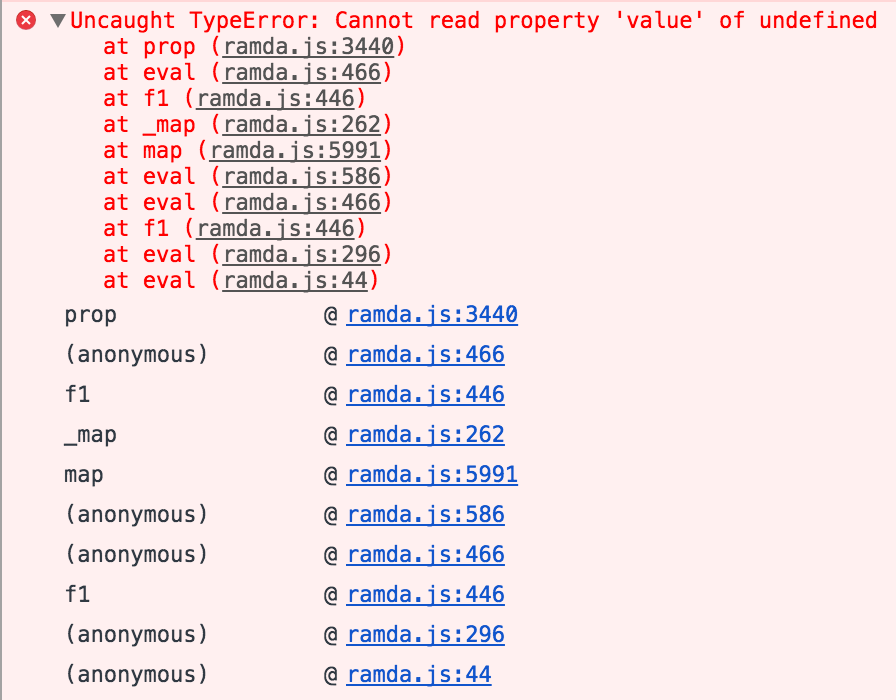
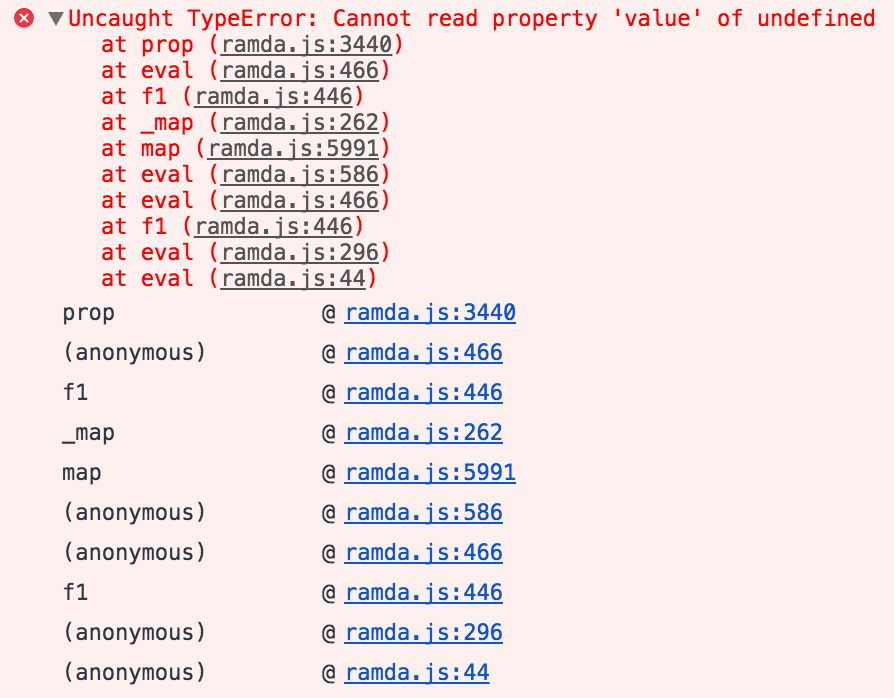
Specify screenshot image sizes

diff --git a/README.md b/README.md
@@ -29,13 +29,14 @@ calc(
   undefined
 );
 ```
+
 The call stack from browser is not very useful:
 
-![Call Stack](doc/before.png)
+<img src="doc/before.png" width="447">
 
 It would be easier to debug with variable names:
 
-![Call Stack Transformed](doc/after.png)
+<img src="doc/after.png" width="446">
 
 ## Installation
 ```sh
